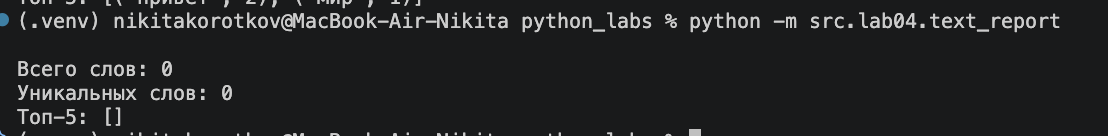
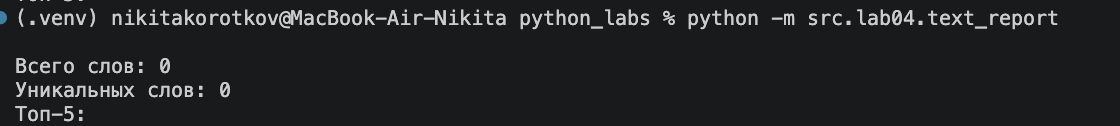
changed lab04

diff --git a/src/lab04/text_report.py b/src/lab04/text_report.py
@@ -12,19 +12,23 @@ def sorted_word_counts(freq: dict[str, int]) -> list[tuple[str, int]]:
     return sorted(freq.items(), key=lambda kv: (-kv[1], kv[0]))
 
 parser = argparse.ArgumentParser()
-parser.add_argument("--in", dest="input_path", default="data/input.txt")
+parser.add_argument("--in", dest="input_path", default="data/lab04/input.txt")
+parser.add_argument("--out", dest="output_path", default="data/lab04/report.csv")
 parser.add_argument("--encoding", default="utf-8")
 args = parser.parse_args()
+try:
+    text = read_text(args.input_path, encoding=args.encoding)
+except FileNotFoundError:
+    print('Файл не найден')
+else:
+    text_frequencies_from_text = frequencies_from_text(text)
+    text_sorted_word_count = sorted_word_counts(text_frequencies_from_text)
 
-text = read_text(args.input_path, encoding=args.encoding)
-
-text_frequencies_from_text = frequencies_from_text(text)
-text_sorted_word_count = sorted_word_counts(text_frequencies_from_text)
-
-write_csv(text_sorted_word_count, "data/report.csv",header=('word', 'count'))
+    write_csv(text_sorted_word_count, args.output_path, header=('word', 'count'))
 
 
-if __name__ == '__main__':
     print("Всего слов:", sum(text_frequencies_from_text.values()))
     print("Уникальных слов:", len(text_frequencies_from_text))
-    print("Топ-5:", top_n(text_frequencies_from_text, 5))
+    print("Топ-5:")
+    for word, count in top_n(text_frequencies_from_text, 5):
+        print(f"{word}:{count}")

diff --git a/src/lab04/io_txt_csv.py b/src/lab04/io_txt_csv.py
@@ -18,7 +18,6 @@ def read_text(path: str | Path, encoding: str = "utf-8") -> str:
     p = Path(path)
     return p.read_text(encoding=encoding)
 
-print(read_text('data/input.txt', encoding= 'utf-8'))
 
 
 
@@ -47,5 +46,5 @@ def write_csv(rows: Iterable[Sequence], path: str | Path,header: tuple[str, ...]
 
 
 if __name__ == '__main__':
-    print(read_text('data/input.txt', encoding= 'utf-8'))
-    print(write_csv([("word","count"),("test",3)], "data/check.csv"))
+    print(read_text('data/lab04/input.txt', encoding= 'utf-8'))
+    print(write_csv([("word","count"),("test",3)], "data/lab04/check.csv"))

diff --git a/src/lab04/README.md b/src/lab04/README.md
@@ -1,134 +1,116 @@
-# Lab04-Файлы: TXT/CSV и отчёты по текстовой статистике
+# Lab04 — Файлы: TXT/CSV и отчёты по текстовой статистике
+
+## Файлы
+- `src/lab04/io_txt_csv.py` — функции `read_text` и `write_csv`
+- `src/lab04/text_report.py` — скрипт, который строит отчёт по частотам слов
+- `src/lib/text.py` — `normalize`, `tokenize`, `top_n` из ЛР3
+- `data/lab04/input.txt` — входной файл (UTF-8)
+- `data/lab04/input_cp1251.txt` — входной файл в кодировке cp1251
+- `data/lab04/report.csv` — отчёт
+
 ---
-### io_txt_csv.py
-```python
-from pathlib import Path
-import csv
-from typing import Iterable, Sequence
 
-def read_text(path: str | Path, encoding: str = "utf-8") -> str:
-    '''
-    Функция читает файл и возвращает его содержимое одной строкой
+## Запуск
+Все команды запускаются из корня проекта.
 
-    По умолчанию стоит кодировка utf-8, чтобы поменять кодировку передайте:
-    read_text("data/input.txt", encoding = "cp1251")
-
-    raise:
-    FileNotFoundError: Если файл не найден.
-    UnicodeDecodeError: Если текст не декодируется
-    в указанной кодировке.
-    '''
-    p = Path(path)
-    return p.read_text(encoding=encoding)
-
-
-
-def write_csv(rows: Iterable[Sequence], path: str | Path,header: tuple[str, ...] | None = None) -> None:
-    '''Создать или перезаписать CSV с разделителем-запятой.
-
-    Если передан header, записать его первой строкой.
-    При разной длине строк поднять ValueError.
-    '''
-    p = Path(path)
-    rows = list(rows)
-
-    if len(rows) != 0:
-        first_len = len(rows[0])
-        for i in rows:
-            if len(i) != first_len:
-                raise ValueError('Все строки должны иметь одинаковую длину')
-
-    with p.open("w", newline="", encoding="utf-8") as f:
-        w = csv.writer(f)
-        if header is not None:
-            w.writerow(header)
-        for r in rows:
-            w.writerow(r)
-
-```
-
-Файл читается целиком в память. Для очень больших файлов лучше
-использовать построчное чтение.
-
-Пустой текстовый файл возвращает пустую строку.
-При пустом rows без header создаётся пустой CSV,
-а с header — CSV только с заголовком.
-
-Для другой кодировки нужно передать параметр encoding,
-например: read_text("data/input.txt", encoding="cp1251").
----
-### text_report.py
-```python
-from src.lab03.text import top_n
-from src.lab04.io_txt_csv import read_text, write_csv
-from collections import Counter
-from src.lib.text import normalize, tokenize  # из ЛР3
-import argparse
-
-def frequencies_from_text(text: str) -> dict[str, int]:
-    tokens = tokenize(normalize(text))
-    return Counter(tokens) 
-
-def sorted_word_counts(freq: dict[str, int]) -> list[tuple[str, int]]:
-    return sorted(freq.items(), key=lambda kv: (-kv[1], kv[0]))
-
-parser = argparse.ArgumentParser()
-parser.add_argument("--in", dest="input_path", default="data/input.txt")
-parser.add_argument("--encoding", default="utf-8")
-args = parser.parse_args()
-
-text = read_text(args.input_path, encoding=args.encoding)
-
-text_frequencies_from_text = frequencies_from_text(text)
-text_sorted_word_count = sorted_word_counts(text_frequencies_from_text)
-
-write_csv(text_sorted_word_count, "data/report.csv",header=('word', 'count'))
-
-
-if __name__ == '__main__':
-    print("Всего слов:", sum(text_frequencies_from_text.values()))
-    print("Уникальных слов:", len(text_frequencies_from_text))
-    print("Топ-5:", top_n(text_frequencies_from_text, 5))
-```
-Запуск из корня проекта:
+```bash
+# читает data/lab04/input.txt, пишет data/lab04/report.csv
 python -m src.lab04.text_report
 
-Если входной файл отсутствует, программа завершается
-с ошибкой FileNotFoundError.
+# свой входной и выходной файл
+python -m src.lab04.text_report --in data/lab04/input.txt --out data/lab04/out.csv
 
-При пустом входном файле report.csv содержит только
-заголовок word,count.
-
-По умолчанию читается data/input.txt в UTF-8.
-Другой файл задаётся через --in, кодировка — через --encoding.
-Отчёт сохраняется в data/report.csv.
-
---- 
-### Test cases
-# A
-Terminal
-![ExA](../../images/lab04/01.png)
-CSV
-
-![ExA](../../images/lab04/02.png)
----
-# B
-Terminal
-![ExB](../../images/lab04/03.png)
-CSV
-
-![ExA](../../images/lab04/04.png)
----
-# C
-Terminal
-![ExA](../../images/lab04/05.png)
-CSV
-
-![ExA](../../images/lab04/06.png)
-
-Запускать:
-```python
-python -m src.lab04.text_report --in data/input.txt --encoding cp1251
+# файл в другой кодировке
+python -m src.lab04.text_report --in data/lab04/input_cp1251.txt --encoding cp1251
 ```
+
+| Параметр | По умолчанию | Описание |
+|---|---|---|
+| `--in` | `data/lab04/input.txt` | входной текстовый файл |
+| `--out` | `data/lab04/report.csv` | куда сохранить отчёт |
+| `--encoding` | `utf-8` | кодировка входного файла |
+
+Отчёт `report.csv` имеет колонки `word,count` и отсортирован по `count` ↓, затем по `word` ↑.
+
 ---
 
+## Кодировки
+- По умолчанию входной файл читается в **UTF-8**.
+- Если файл сохранён в другой кодировке, её передают через `--encoding`, например `--encoding cp1251`.
+  В коде то же самое делается так: `read_text(path, encoding="cp1251")`.
+- Если указать неверную кодировку, программа завершится с ошибкой `UnicodeDecodeError`.
+- CSV-отчёт всегда записывается в **UTF-8**.
+
+---
+
+## Политика для краевых случаев
+- **Пустой входной файл**: `report.csv` содержит **только заголовок** `word,count`, в консоли 0 слов и пустой Топ-5.
+- **Входной файл не найден**: программа выводит `Файл не найден` и завершается, отчёт не создаётся.
+- **Большой файл**: файл читается в память целиком (так требует ТЗ). В реальных задачах большие файлы лучше читать построчно.
+- **`write_csv`**:
+  - при пустом `rows` и `header=None` создаётся пустой файл;
+  - при пустом `rows` и заданном `header` в файле будет только заголовок;
+  - если строки в `rows` разной длины, функция поднимает `ValueError`.
+
+---
+
+## Тест-кейсы
+
+### A. Один файл
+Вход `data/lab04/input.txt`: `Привет, мир! Привет!!!`
+
+```bash
+python -m src.lab04.text_report
+```
+
+Терминал
+
+![A](../../images/lab04/01.png)
+
+CSV
+
+![A](../../images/lab04/02.png)
+
+---
+
+### B. Пустой файл
+Вход: пустой `data/lab04/input.txt`
+
+```bash
+python -m src.lab04.text_report
+```
+
+Терминал
+
+![B](../../images/lab04/03.png)
+
+CSV
+
+![B](../../images/lab04/04.png)
+
+---
+
+### C. Кодировка cp1251
+Вход `data/lab04/input_cp1251.txt` (cp1251): `Привет`
+
+```bash
+python -m src.lab04.text_report --in data/lab04/input_cp1251.txt --encoding cp1251
+```
+
+Терминал
+
+![C](../../images/lab04/05.png)
+
+CSV
+
+![C](../../images/lab04/06.png)
+
+---
+
+### Файл не найден
+
+```bash
+python -m src.lab04.text_report --in data/lab04/nope.txt
+```
+
+![Нет файла](../../images/lab04/07.png)
